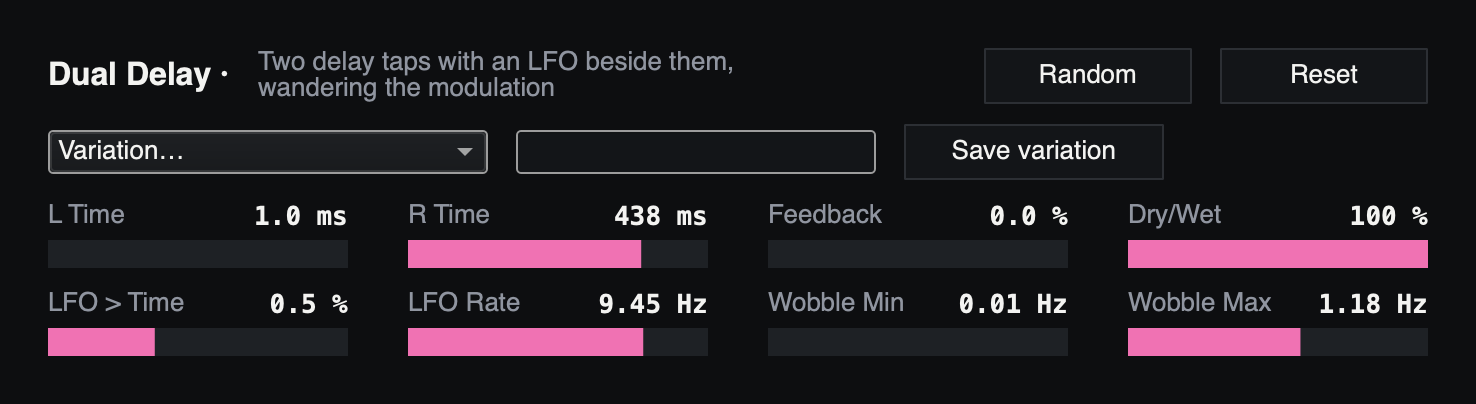
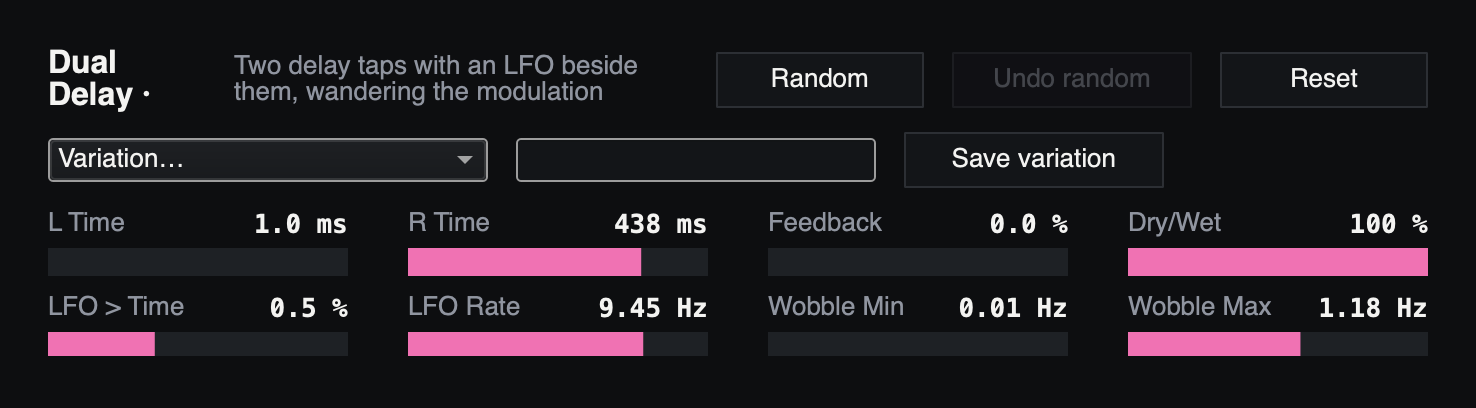
Undo random: an effect's draw taken back
An effect's Random could not be undone (roadmap item 20, smaller): Reset
goes to the type's defaults, not to the settings before the draw. Each
Random now keeps the device's settings before it (MegaSA.randomizeFx,
up to 16 per device), and Undo random puts them back, a setting moved by
hand since included; again for the draw before. Undo and redo stay the
chains' structure's. A device removed, or a sound recalled, has none to
take back. The button sits between Random and Reset, grey with nothing to
take back, and the device's ⋯ menu has it too. No MIDI target yet.

test-megasa-random.scd: two draws back, the knob moved between, the 16,
a removed device; check-gui-effects: the button and the menu. The effects
guide, the guide's table and every effect panel's picture follow.

diff --git a/docs/standalone.md b/docs/standalone.md
@@ -54,7 +54,7 @@ Each chain is a row of tiles, played left to right.
 | Move or remove it by menu | Click its tile, then press **⋯** |
 | Put a setting back to its default | Double-click it, or **Reset** for the whole effect |
 | Keep an effect's settings | Type a name beside **Save variation**, under the effect's title, and press it. The variation holds every setting, and the menu beside it lists it for every effect of that type (both Delays, say). The same name again replaces it; **Delete:** in the menu removes it |
-| Try out a random sound | **Random** beside Reset: every setting at a random value. **Reset** brings the starting values back |
+| Try out a random sound | **Random** beside Reset: every setting at a random value. **Undo random** takes the draw back (again for the one before); **Reset** brings the starting values back |
 | Undo an edit | Cmd+Z. Shift+Cmd+Z redoes |
 
 Edits are safe while a loop plays: the chain cross-fades to its new order.

diff --git a/docs/effects.md b/docs/effects.md
@@ -31,7 +31,8 @@ what each one does, and every setting it has.
   loop's tempo, which every new reading sets. Their changes glide.
 - **Random** sets every setting at random but the output levels and the
   Envelope Filter's Makeup, so a new sound comes out about as loud.
-  **Reset** puts the defaults back.
+  **Undo random** takes a draw back, settings you moved since included,
+  then the one before, up to 16; **Reset** puts the defaults back.
 - **Variations.** The menu under an effect's title recalls settings kept
   under a name, and **Save variation** keeps yours. A variation is one
   effect's settings; a sound is all the chains. [A variation or a
